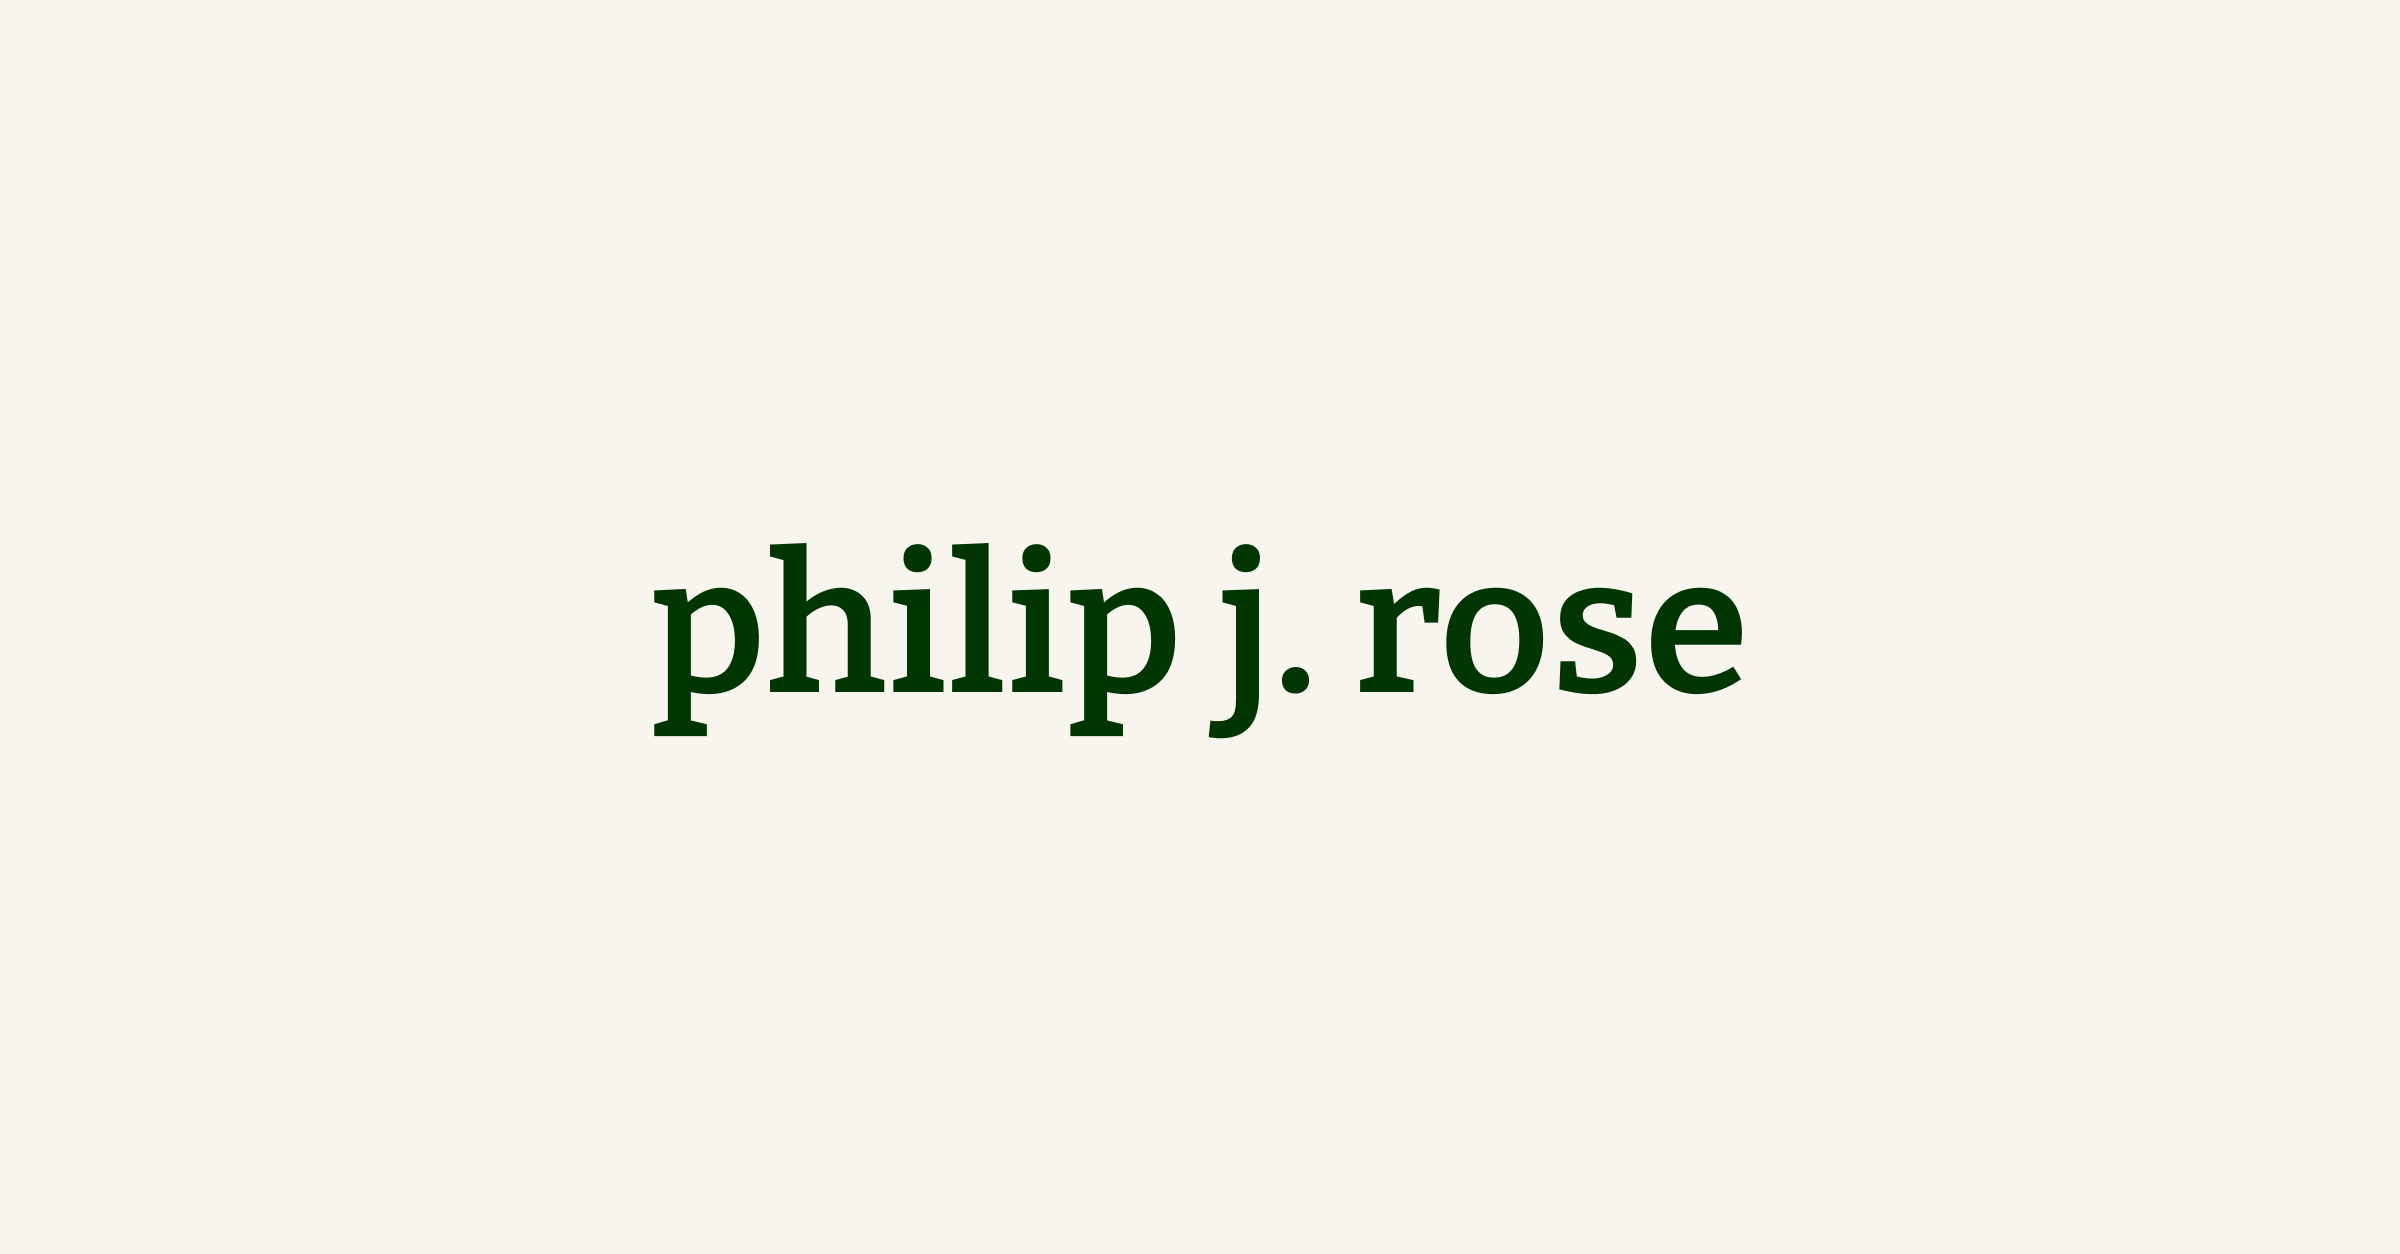
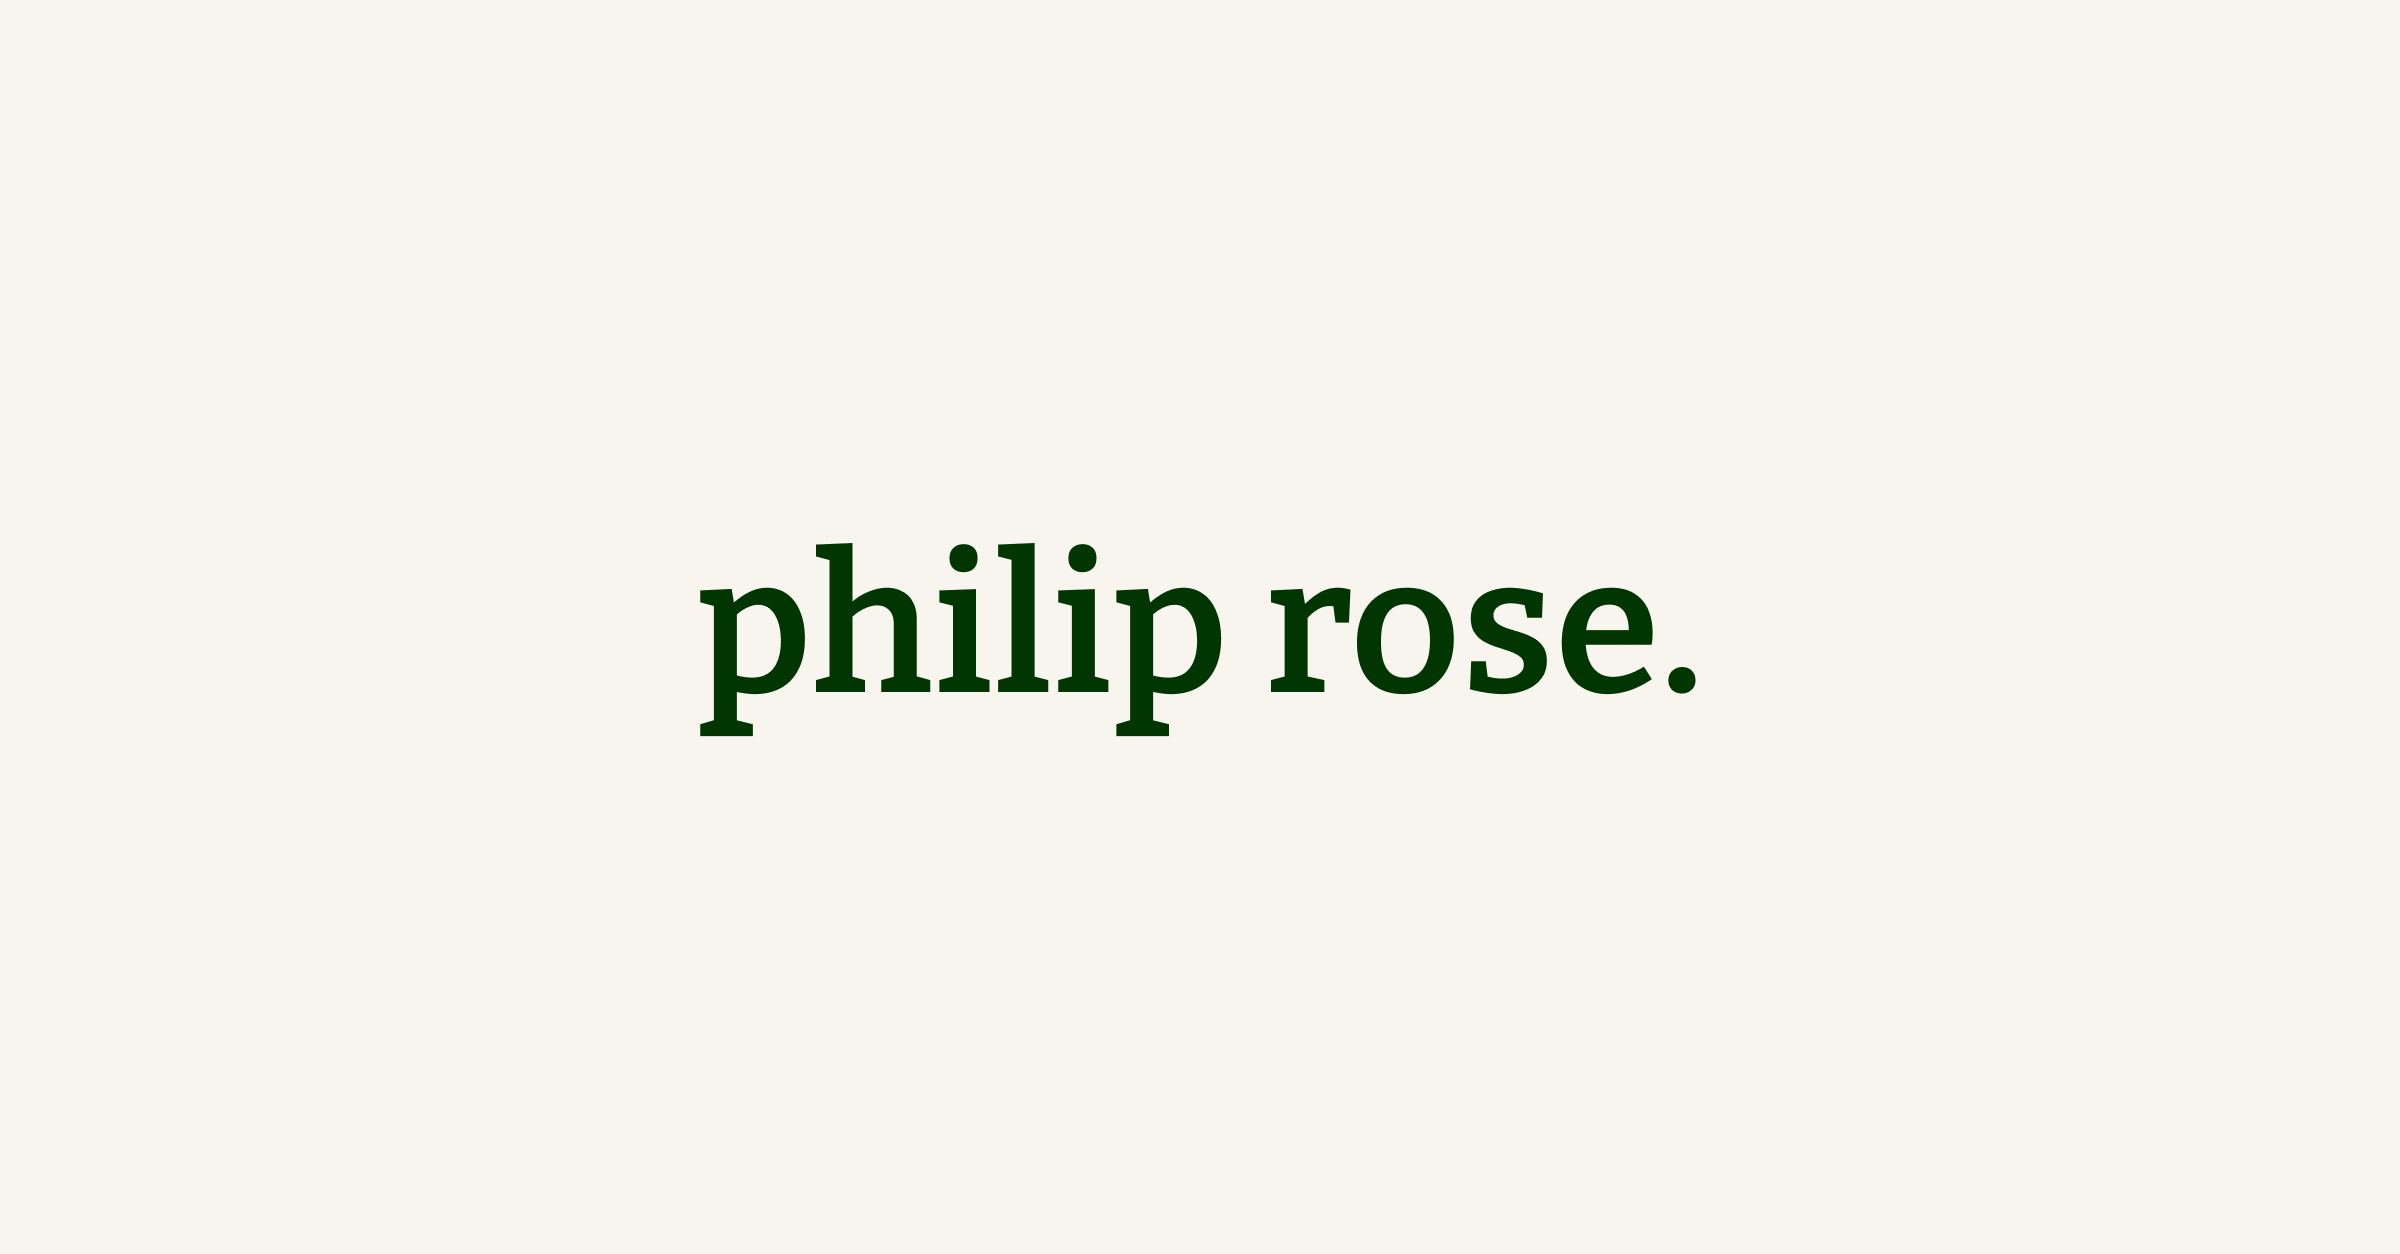
Re-branded: Philip J. Rose -> Philip Rose.

Changed region(s): [[0.25, 0.4354, 0.75, 0.5909]]

diff --git a/_includes/head.html b/_includes/head.html
@@ -20,11 +20,11 @@
 <link rel="manifest" href="{{ "/assets/icons/site.webmanifest" | relative_url }}">
 <link rel="mask-icon" href="{{ "/assets/icons/safari-pinned-tab.svg" | relative_url }}" color="#013602">
 <link rel="shortcut icon" href="{{ "/assets/icons/favicon.ico" | relative_url }}">
-<meta name="apple-mobile-web-app-title" content="Philip J. Rose">
-<meta name="application-name" content="Philip J. Rose">
-<meta name="msapplication-TileColor" content="#b91d47">
+<meta name="apple-mobile-web-app-title" content="Philip Rose">
+<meta name="application-name" content="Philip Rose">
+<meta name="msapplication-TileColor" content="#013602">
 <meta name="msapplication-config" content="{{ "/assets/icons/browserconfig.xml" | relative_url }}">
-<meta name="theme-color" content="#ffffff">
+<meta name="theme-color" content="#f8f5ee">
 
 {% comment %} Open Graph metadata (for LinkedIn etc. shares) {% endcomment %}
 

diff --git a/_sass/main.scss b/_sass/main.scss
@@ -121,12 +121,18 @@ p {
   text-transform: lowercase;
 }
 
+.site-title::after {
+  content: ".";
+}
+
 .home-layout .site-title {
   font-size: 4rem;
   font-weight: 400;
   font-variation-settings: "wght" 600;
   margin: 0;
 }
+
+
 
 @media (max-width: 25em) {
   .home-layout .site-title {

diff --git a/_layouts/article.html b/_layouts/article.html
@@ -6,7 +6,7 @@
   <body class="article-layout">
     <div class="container">
         <header>
-            <h1 class="site-title"><a href="/">Philip J. Rose</a></h1>
+            <h1 class="site-title"><a href="/">Philip Rose</a></h1>
         </header>
         
         <main>

diff --git a/_layouts/home.html b/_layouts/home.html
@@ -6,7 +6,7 @@
   <body class="home-layout">
     <div class="container">
       <header>
-        <h1 class="site-title">Philip J. Rose</h1>
+        <h1 class="site-title">Philip Rose</h1>
       </header>
   
       <main>

diff --git a/_includes/footer.html b/_includes/footer.html
@@ -1,1 +1,1 @@
-<footer>&copy; Philip J. Rose</footer>
+<footer>&copy; Philip Rose</footer>
